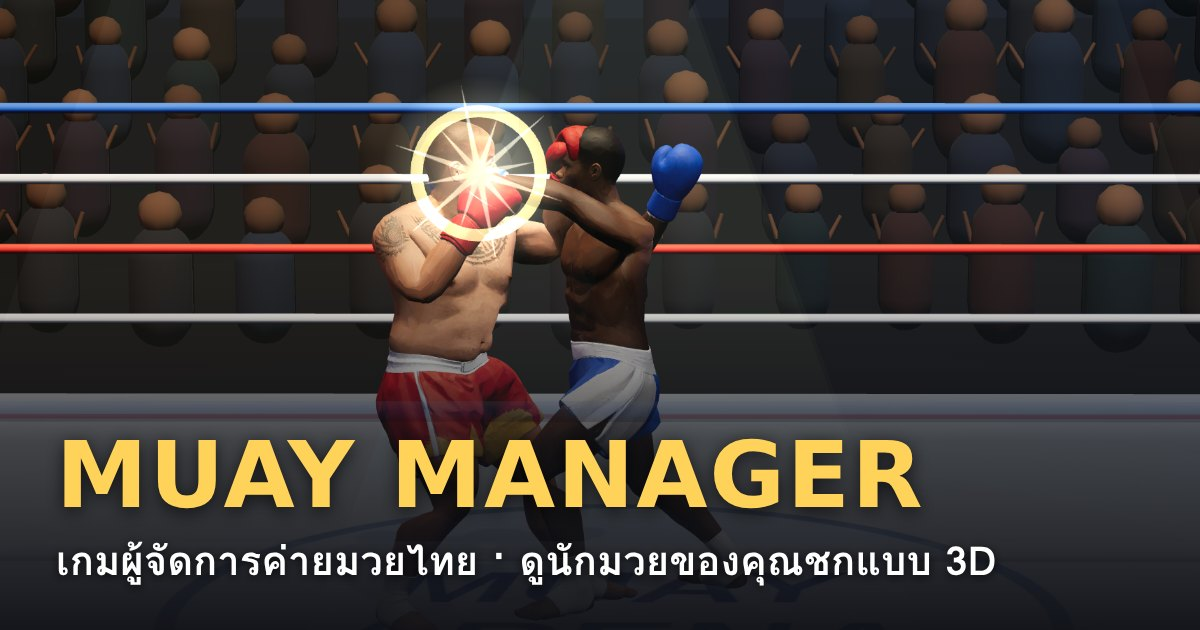
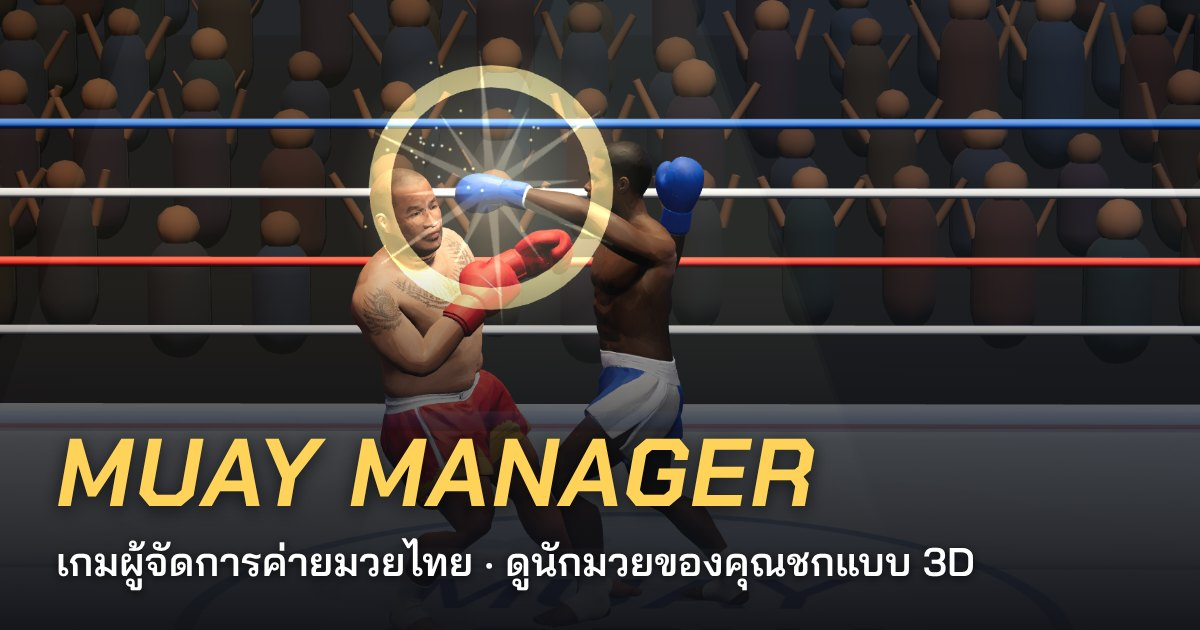
Muay Manager 2.60: new typefaces (Chakra Petch, Bai Jamjuree)
- headings, buttons, names and the scoreboard in Chakra Petch; body
  text in Bai Jamjuree (was Kanit and IBM Plex Sans Thai)
- words painted in the 3D halls use the same face; the faces they need
  are fetched before the hall is built, for 3 s at most
- link-preview picture remade with the same faces

Claude-Session: https://claude.ai/code/session_01CYCduqzhEhZjoxKVgwEKHx

diff --git a/muay-manager/prototypes/fight3d/src/arena.js b/muay-manager/prototypes/fight3d/src/arena.js
@@ -28,7 +28,7 @@ function matTex(c) {
     speckle(g, w, h, 2600, '255,255,255', c.dark || '40,60,80', c.noise || .05, 5);
     if (c.ring) { g.strokeStyle = c.ring; g.lineWidth = 10; g.beginPath(); g.arc(w / 2, h / 2, 210, 0, 7); g.stroke(); }
     if (c.fill) { g.fillStyle = c.fill; g.beginPath(); g.arc(w / 2, h / 2, 205, 0, 7); g.fill(); }
-    g.fillStyle = c.ink; g.font = 'italic 800 ' + (c.size || 78) + 'px Kanit, sans-serif'; g.textAlign = 'center'; g.textBaseline = 'middle';
+    g.fillStyle = c.ink; g.font = 'italic 800 ' + (c.size || 78) + 'px "Chakra Petch", sans-serif'; g.textAlign = 'center'; g.textBaseline = 'middle';
     g.fillText(c.t1, w / 2, h / 2 - 42); g.fillText(c.t2, w / 2, h / 2 + 46);
     if (c.border) { g.strokeStyle = c.border; g.lineWidth = 14; g.strokeRect(70, 70, w - 140, h - 140); }
   });
@@ -39,7 +39,7 @@ function apronTex(c) {
     if (c.planks) { for (let x = 0; x < w; x += 46) { g.fillStyle = 'rgba(0,0,0,' + (.08 + rng() * .22) + ')'; g.fillRect(x, 0, 3, h); g.fillStyle = 'rgba(255,220,170,' + rng() * .06 + ')'; g.fillRect(x + 3, 0, 43, h); } }
     if (c.bunting) { const cols = c.bunting; for (let x = 0, i = 0; x < w; x += 64, i++) { g.fillStyle = cols[i % cols.length]; g.beginPath(); g.moveTo(x, 0); g.lineTo(x + 64, 0); g.lineTo(x + 32, 44); g.fill(); } }
     g.fillStyle = 'rgba(0,0,0,.25)'; g.fillRect(0, 0, w, 10);
-    g.fillStyle = c.fg; g.font = 'italic 800 ' + (c.size || 46) + 'px Kanit, sans-serif'; g.textAlign = 'center'; g.textBaseline = 'middle';
+    g.fillStyle = c.fg; g.font = 'italic 800 ' + (c.size || 46) + 'px "Chakra Petch", sans-serif'; g.textAlign = 'center'; g.textBaseline = 'middle';
     for (let i = 0; i < 3; i++) g.fillText(c.text, w / 6 + i * w / 3, h / 2 + (c.bunting ? 22 : 4));
   });
 }
@@ -227,7 +227,7 @@ const champ = () => indoor({rows: 12, ropes: [0xe2b33c, 0x18181c, 0xe2b33c, 0x18
   apron: {bg: '#101013', fg: 'rgba(238,196,84,.95)', text: 'ศึกชิงแชมป์', size: 50},
   shirts: [0x1a1f2c, 0x2a2030, 0x162226, 0x30261c, 0x1f2127, 0x3a1e1e, 0x1a2434, 0x3a3320],
   extra(V) {
-    const screen = canvasTex(1024, 256, (g, w, h) => { const gr = g.createLinearGradient(0, 0, w, 0); gr.addColorStop(0, '#2a1a05'); gr.addColorStop(.5, '#7a5512'); gr.addColorStop(1, '#2a1a05'); g.fillStyle = gr; g.fillRect(0, 0, w, h); g.fillStyle = '#ffe9a8'; g.font = 'italic 800 120px Kanit, sans-serif'; g.textAlign = 'center'; g.textBaseline = 'middle'; g.fillText('ศึกชิงแชมป์มวยไทย', w / 2, h / 2 + 6); g.strokeStyle = '#ffd35a'; g.lineWidth = 8; g.strokeRect(8, 8, w - 16, h - 16); });
+    const screen = canvasTex(1024, 256, (g, w, h) => { const gr = g.createLinearGradient(0, 0, w, 0); gr.addColorStop(0, '#2a1a05'); gr.addColorStop(.5, '#7a5512'); gr.addColorStop(1, '#2a1a05'); g.fillStyle = gr; g.fillRect(0, 0, w, h); g.fillStyle = '#ffe9a8'; g.font = 'italic 800 120px "Chakra Petch", sans-serif'; g.textAlign = 'center'; g.textBaseline = 'middle'; g.fillText('ศึกชิงแชมป์มวยไทย', w / 2, h / 2 + 6); g.strokeStyle = '#ffd35a'; g.lineWidth = 8; g.strokeRect(8, 8, w - 16, h - 16); });
     const sm = basic({map: screen, fog: false});
     put(V.group, new THREE.PlaneGeometry(15, 3.75), sm, 0, 9.4, -19.5);
     put(V.group, new THREE.PlaneGeometry(11, 2.75), sm, -19.5, 8.6, -4, 0, Math.PI / 2); put(V.group, new THREE.PlaneGeometry(11, 2.75), sm, 19.5, 8.6, -4, 0, -Math.PI / 2);
@@ -244,7 +244,7 @@ const province = () => indoor({rows: 4, ropes: [0xe9e9ee, 0xd9342b, 0xe9e9ee, 0x
   shirts: [0x2a3040, 0x3a2a2a, 0x24382e, 0x40382a, 0x2c2c34, 0x4a2626, 0x26364a, 0x4a4030],
   extra(V) {
     const g = V.group, D = 12.6;
-    const board = canvasTex(1024, 256, (c, w, h) => { c.fillStyle = '#17383c'; c.fillRect(0, 0, w, h); const cols = ['#c9a23a', '#b23a2e', '#e6dcc2', '#2d6f8f'], words = ['มวยไทย', 'ศึกวันศุกร์', 'ค่ายมวย', 'ชกทุกนัด']; for (let i = 0; i < 4; i++) { c.fillStyle = cols[i]; c.fillRect(20 + i * 252, 40, 228, 150); c.fillStyle = i === 2 ? '#7c1f1a' : '#fff'; c.font = '700 44px Kanit, sans-serif'; c.textAlign = 'center'; c.textBaseline = 'middle'; c.fillText(words[i], 134 + i * 252, 116); } });
+    const board = canvasTex(1024, 256, (c, w, h) => { c.fillStyle = '#17383c'; c.fillRect(0, 0, w, h); const cols = ['#c9a23a', '#b23a2e', '#e6dcc2', '#2d6f8f'], words = ['มวยไทย', 'ศึกวันศุกร์', 'ค่ายมวย', 'ชกทุกนัด']; for (let i = 0; i < 4; i++) { c.fillStyle = cols[i]; c.fillRect(20 + i * 252, 40, 228, 150); c.fillStyle = i === 2 ? '#7c1f1a' : '#fff'; c.font = '700 44px "Chakra Petch", sans-serif'; c.textAlign = 'center'; c.textBaseline = 'middle'; c.fillText(words[i], 134 + i * 252, 116); } });
     board.wrapS = THREE.RepeatWrapping; board.repeat.set(3, 1);
     const wall = std({map: board, roughness: 1});
     for (let i = 0; i < 4; i++) put(g, new THREE.PlaneGeometry(D * 2, 6.4), wall, -Math.sin(i * Math.PI / 2) * D, 2.2, -Math.cos(i * Math.PI / 2) * D, 0, i * Math.PI / 2);
@@ -402,8 +402,8 @@ function camp(level) {
     if (L === 2) { c.fillStyle = '#9a9a94'; c.fillRect(0, 0, w, h); speckle(c, w, h, 4800, '70,70,70', '200,200,195', .14, 7); c.strokeStyle = 'rgba(60,60,60,.35)'; c.lineWidth = 4; for (let x = 256; x < w; x += 256) { c.beginPath(); c.moveTo(x, 0); c.lineTo(x, h); c.stroke(); c.beginPath(); c.moveTo(0, x); c.lineTo(w, x); c.stroke(); } return; }
     c.fillStyle = L === 5 ? '#b0362c' : '#3d6f8a'; c.fillRect(0, 0, w, h); speckle(c, w, h, 4200, '255,255,255', '15,35,50', .1, 8);
     c.strokeStyle = L === 5 ? 'rgba(242,184,58,.85)' : 'rgba(255,255,255,.55)'; c.lineWidth = 10; c.strokeRect(60, 60, w - 120, h - 120);
-    c.fillStyle = L === 5 ? 'rgba(242,184,58,.9)' : 'rgba(255,255,255,.75)'; c.font = 'italic 800 76px Kanit, sans-serif'; c.textAlign = 'center'; c.textBaseline = 'middle'; c.fillText('ค่ายมวย', w / 2, h / 2 + 250);
-    if (L >= 4) { c.font = '800 54px Kanit, sans-serif'; c.fillText('★'.repeat(L - 2), w / 2, h / 2 + 330); }
+    c.fillStyle = L === 5 ? 'rgba(242,184,58,.9)' : 'rgba(255,255,255,.75)'; c.font = 'italic 800 76px "Chakra Petch", sans-serif'; c.textAlign = 'center'; c.textBaseline = 'middle'; c.fillText('ค่ายมวย', w / 2, h / 2 + 250);
+    if (L >= 4) { c.font = '800 54px "Chakra Petch", sans-serif'; c.fillText('★'.repeat(L - 2), w / 2, h / 2 + 330); }
   });
   const floor = put(g, new THREE.PlaneGeometry(S + (L >= 4 ? 1.2 : 0), S + (L >= 4 ? 1.2 : 0)), std({map: floorTex, roughness: .95}), 0, .004, 0, -Math.PI / 2); floor.receiveShadow = true;
   const wood = std({color: 0x5a4028}), woodL = std({color: 0x7a5a3a}), white = std({color: 0xf0ece2}), gold = std({color: 0xd9a531, metalness: .5, roughness: .4}), red = std({color: 0xb5281f});
@@ -442,7 +442,7 @@ function camp(level) {
       put(g, new THREE.PlaneGeometry(X * 2 + .2, 2.6), std({map: plank, roughness: .95}), 0, 1.3, -D - .12);
       const nP = L === 3 ? 2 : L === 4 ? 4 : 6;
       for (let i = 0; i < nP; i++) { const x = -X + .6 + (i + .5) * ((X * 2 - 1.2) / nP); put(g, new THREE.PlaneGeometry(.62, .86), basic({map: posterTex(i + L * 3)}), x, 2.05 + (i % 2 ? .06 : -.04), -D - .1); }
-      const ban = canvasTex(1024, 160, (c, w, h) => { c.fillStyle = L === 5 ? '#7a1712' : '#1f3f8a'; c.fillRect(0, 0, w, h); c.fillStyle = '#f2b83a'; c.fillRect(0, 10, w, 8); c.fillRect(0, h - 18, w, 8); c.font = '800 92px Kanit, sans-serif'; c.textAlign = 'center'; c.textBaseline = 'middle'; c.fillStyle = '#fff4d8'; c.fillText(L === 5 ? 'ค่ายมวยระดับแชมป์' : 'ค่ายมวยไทย', w / 2, h / 2 + 4); });
+      const ban = canvasTex(1024, 160, (c, w, h) => { c.fillStyle = L === 5 ? '#7a1712' : '#1f3f8a'; c.fillRect(0, 0, w, h); c.fillStyle = '#f2b83a'; c.fillRect(0, 10, w, 8); c.fillRect(0, h - 18, w, 8); c.font = '800 92px "Chakra Petch", sans-serif'; c.textAlign = 'center'; c.textBaseline = 'middle'; c.fillStyle = '#fff4d8'; c.fillText(L === 5 ? 'ค่ายมวยระดับแชมป์' : 'ค่ายมวยไทย', w / 2, h / 2 + 4); });
       put(g, new THREE.PlaneGeometry(4.6, .72), basic({map: ban, side: THREE.DoubleSide}), 0, H - .52, D + .02, 0, Math.PI, 0);
       put(g, new THREE.PlaneGeometry(4.6, .72), basic({map: ban, side: THREE.DoubleSide}), 0, H + .25, -D - .14);
       const flagCols = [0xc9281f, 0xf0f0f2, 0x1f55c4, 0xe0a52a, 0x2f8a3a];
@@ -547,13 +547,13 @@ function posterTex(seed) {
   const pal = [['#c9281f', '#f2b83a'], ['#1f3f8a', '#f0f0f2'], ['#e0a52a', '#1b1300'], ['#2f6a2a', '#f2e6b8'], ['#5a1f6a', '#f2b83a'], ['#1b1b1f', '#e2382f']][seed % 6];
   return canvasTex(256, 360, (c, w, h) => {
     c.fillStyle = pal[0]; c.fillRect(0, 0, w, h); c.fillStyle = 'rgba(0,0,0,.18)'; c.fillRect(0, h * .62, w, h * .38);
-    c.fillStyle = pal[1]; c.font = '800 46px Kanit, sans-serif'; c.textAlign = 'center'; c.fillText('ศึกมวยไทย', w / 2, 58);
+    c.fillStyle = pal[1]; c.font = '800 46px "Chakra Petch", sans-serif'; c.textAlign = 'center'; c.fillText('ศึกมวยไทย', w / 2, 58);
     // two fighters' silhouettes facing each other
     c.fillStyle = 'rgba(0,0,0,.55)';
     for (const s of [-1, 1]) { const x = w / 2 + s * 58; c.beginPath(); c.arc(x, 128, 22, 0, 7); c.fill(); c.fillRect(x - 24, 152, 48, 70); c.beginPath(); c.arc(x - s * 30, 150, 15, 0, 7); c.fill(); c.fillRect(x - 20, 222, 16, 60); c.fillRect(x + 4, 222, 16, 60); }
-    c.fillStyle = pal[1]; c.font = '800 40px Kanit, sans-serif'; c.fillText('VS', w / 2, 200);
-    c.font = '700 26px Kanit, sans-serif'; c.fillText(['คืนวันเสาร์', 'ชิงเข็มขัด', 'คู่เอก 5 ยก', 'มันส์ทุกคู่', 'ศึกวันพระ', 'ศึกใหญ่ประจำปี'][(seed * 7) % 6], w / 2, h - 70);
-    c.font = '600 20px Kanit, sans-serif'; c.fillText('เวทีมวยประจำจังหวัด', w / 2, h - 36);
+    c.fillStyle = pal[1]; c.font = '800 40px "Chakra Petch", sans-serif'; c.fillText('VS', w / 2, 200);
+    c.font = '700 26px "Chakra Petch", sans-serif'; c.fillText(['คืนวันเสาร์', 'ชิงเข็มขัด', 'คู่เอก 5 ยก', 'มันส์ทุกคู่', 'ศึกวันพระ', 'ศึกใหญ่ประจำปี'][(seed * 7) % 6], w / 2, h - 70);
+    c.font = '600 20px "Chakra Petch", sans-serif'; c.fillText('เวทีมวยประจำจังหวัด', w / 2, h - 36);
   });
 }
 // a pair of boxing shorts, for the washing line
@@ -562,7 +562,7 @@ function shortsTex(col, i) {
     c.fillStyle = '#' + col.toString(16).padStart(6, '0');
     c.beginPath(); c.moveTo(14, 18); c.lineTo(114, 18); c.lineTo(122, 116); c.lineTo(72, 116); c.lineTo(64, 78); c.lineTo(56, 116); c.lineTo(6, 116); c.closePath(); c.fill();
     c.fillStyle = col === 0xf0f0f2 ? '#c9281f' : '#ffffff'; c.fillRect(14, 18, 100, 16);
-    c.fillStyle = 'rgba(255,255,255,.55)'; c.font = '700 22px Kanit, sans-serif'; c.textAlign = 'center'; c.fillText(['มวย', 'ไทย', 'สู้', 'ชนะ'][i % 4], 36, 80);
+    c.fillStyle = 'rgba(255,255,255,.55)'; c.font = '700 22px "Chakra Petch", sans-serif'; c.textAlign = 'center'; c.fillText(['มวย', 'ไทย', 'สู้', 'ชนะ'][i % 4], 36, 80);
   });
 }
 

diff --git a/muay-manager/prototypes/fight3d/src/page.html b/muay-manager/prototypes/fight3d/src/page.html
@@ -1,6 +1,6 @@
 <title>Muay Fight Lab 3D</title>
 <meta name="claude:viewport-fit-sides" content="cover">
-<link rel="stylesheet" href="https://fonts.googleapis.com/css2?family=Kanit:ital,wght@0,500;0,700;1,800&family=IBM+Plex+Sans+Thai:wght@400;500;600&display=swap">
+<link rel="stylesheet" href="https://fonts.googleapis.com/css2?family=Chakra+Petch:ital,wght@0,500;0,600;0,700;1,700&family=Bai+Jamjuree:wght@400;500;600;700&display=swap">
 <style>
 /* Layout: fight-night broadcast. Scoreboard strip, 3D arena, call line, look switcher, tale of the tape. Single dark look by choice. */
 :root{
@@ -8,8 +8,8 @@
   --bg:#0e0f14; --panel:#181a22; --line:#2a2d39; --fg:#f1f2f5; --muted:#9a9fb0;
   --red:#e2382f; --red-soft:#ff7a70; --blue:#2f76ea; --blue-soft:#7fb0ff; --gold:#f2b83a; --hp:#49d17d; --warn:#f2c23a; --bad:#f0624f;
   --track:#2a2d39; --stamina:#59b5ff; --ink:#1b1300; --shade:rgba(6,7,10,.78); --stage:#07080b; --pop:#ffffff;
-  --display:"Kanit","IBM Plex Sans Thai",system-ui,sans-serif;
-  --body:"IBM Plex Sans Thai",system-ui,-apple-system,"Segoe UI",sans-serif;
+  --display:"Chakra Petch","Bai Jamjuree",system-ui,sans-serif; /* the heaviest face is 700: the 800 asked for here and there resolves to it */
+  --body:"Bai Jamjuree",system-ui,-apple-system,"Segoe UI",sans-serif;
 }
 body{background:var(--bg);color:var(--fg);font-family:var(--body);font-size:15px;line-height:1.5;
   padding-block:12px 28px;padding-left:max(16px, env(safe-area-inset-left, 0px));padding-right:max(16px, env(safe-area-inset-right, 0px))}
@@ -423,7 +423,7 @@ p.bad{margin:0;font-size:14px;font-weight:600;color:var(--bad)}
   <details class="credits"><summary>เครดิต</summary>
     <p>เสียงประกอบการชกจาก <a href="https://opengameart.org" target="_blank" rel="noopener">OpenGameArt.org</a> เป็นสาธารณสมบัติ (CC0) ขอบคุณผู้สร้างทุกคน</p>
     <ul><li>หมัด: <a href="https://opengameart.org/content/punch" target="_blank" rel="noopener">Punch</a> โดย Iwan "qubodup" Gabovitch (CC0)</li><li>หมัด ลูกหนัก ศอก ล้ม: <a href="https://opengameart.org/content/37-hitspunches" target="_blank" rel="noopener">37 hits/punches</a> โดย qubodup (Independent.nu ljudbank) (CC0)</li><li>เตะโดนเนื้อ ล้ม: <a href="https://opengameart.org/content/12-wet-towel-hittingfallingpunching-floor-sounds" target="_blank" rel="noopener">12 wet towel hitting/falling/punching floor sounds</a> โดย Iwan "qubodup" Gabovitch (CC0)</li><li>ลมลูกเตะ: <a href="https://opengameart.org/content/swish-bamboo-stick-weapon-swhoshes" target="_blank" rel="noopener">Swish - bamboo stick weapon swhoshes</a> โดย Iwan "qubodup" Gabovitch (CC0)</li><li>ลมหมัด: <a href="https://opengameart.org/content/swishes-sound-pack" target="_blank" rel="noopener">Swishes Sound Pack</a> โดย artisticdude (CC0)</li><li>บัง ศอก: <a href="https://opengameart.org/content/10-impactshield-blocks" target="_blank" rel="noopener">10 Impact/Shield Blocks</a> โดย StarNinjas (CC0)</li><li>คนดูลุกฮือ: <a href="https://opengameart.org/content/crowd-shoutingspeaking-ambience" target="_blank" rel="noopener">Crowd Shouting/Speaking Ambience</a> โดย StarNinjas (CC0)</li><li>ปรบมือ: <a href="https://opengameart.org/content/applause-in-a-large-hall-or-church" target="_blank" rel="noopener">Applause in a large hall or church</a> โดย eXpl0it3r (CC0)</li><li>เสียงคนดูและเสียงเชียร์: <a href="https://opengameart.org/content/free-crowd-cheering-sounds" target="_blank" rel="noopener">Free Crowd Cheering Sounds</a> โดย Gregor Quendel (<a href="https://creativecommons.org/licenses/by/4.0/" target="_blank" rel="noopener">CC-BY 4.0</a>) ตัดบางช่วงและปรับความดัง</li></ul>
-    <p>ฟอนต์ Kanit, IBM Plex Sans Thai (OFL) • <a href="https://threejs.org" target="_blank" rel="noopener">three.js</a> (MIT)</p>
+    <p>ฟอนต์ Chakra Petch, Bai Jamjuree (OFL) • <a href="https://threejs.org" target="_blank" rel="noopener">three.js</a> (MIT)</p>
   </details>
   <p class="note" id="noteLine"><span id="modelNote"></span>ไฟต์หมายเลข <span id="seed"></span> เปลี่ยนแบบการนำเสนอได้ตลอดโดยผลการชกไม่เปลี่ยน ตัวเลขข้างชื่อคือแต้มสด ขึ้นทันทีเมื่ออาวุธเข้าเป้า: เข้าเป้า +1 เข้าหนักหรือท่าไม้ตาย +2 เหวี่ยงล้มหรือถีบล้ม +3 ทำล้มจนถูกนับ +10 โดนบังไม่ได้แต้ม ครบยกแล้วแต้มมากกว่าชนะ สีทองคือฝ่ายที่นำ ใต้นาฬิกาคือแต้มของยกที่กำลังชก แถบเขียวคือพลังชีวิต แถบฟ้าคือความอึด แถบทองคือเกจท่าไม้ตาย</p>
 </div>

diff --git a/muay-manager/prototypes/fight3d/src/main.js b/muay-manager/prototypes/fight3d/src/main.js
@@ -114,8 +114,8 @@ function buildRoundCard() { // readable from both sides
   g.visible = false;
   return {obj: g, set(n) {
     const c = cv.getContext('2d'); c.fillStyle = '#101116'; c.fillRect(0, 0, 256, 192); c.strokeStyle = '#f2b83a'; c.lineWidth = 8; c.strokeRect(7, 7, 242, 178);
-    c.textAlign = 'center'; c.fillStyle = '#f2b83a'; c.font = "700 40px 'Kanit', 'IBM Plex Sans Thai', sans-serif"; c.fillText('ยก', 128, 54);
-    c.fillStyle = '#ffffff'; c.font = "800 118px 'Kanit', 'IBM Plex Sans Thai', sans-serif"; c.fillText(String(n), 128, 164); tex.needsUpdate = true; }};
+    c.textAlign = 'center'; c.fillStyle = '#f2b83a'; c.font = "700 40px 'Chakra Petch', 'Bai Jamjuree', sans-serif"; c.fillText('ยก', 128, 54);
+    c.fillStyle = '#ffffff'; c.font = "800 118px 'Chakra Petch', 'Bai Jamjuree', sans-serif"; c.fillText(String(n), 128, 164); tex.needsUpdate = true; }};
 }
 function startCorner() {
   if (!fighters[0] || !fighters[0].isModel || !fighters[1].isModel) return false;
@@ -1096,4 +1096,7 @@ const start = async () => {
 };
 // sample fights that end in different ways: hook, high kick, elbow, flying knee, and a decision
 const SAMPLE_SEEDS = [300, 512, 84, 1607, 5];
-if (document.fonts && document.fonts.ready) document.fonts.ready.then(start, start); else start();
+if (document.fonts && document.fonts.load) {
+  const want = ['italic 700', '700', '600', '500'].map(w => document.fonts.load(w + ' 20px "Chakra Petch"', 'มวยไทย ศึก ยก MUAY 123').catch(() => {}));
+  Promise.race([Promise.all(want).then(() => document.fonts.ready), new Promise(res => setTimeout(res, 3000))]).then(start, start);
+} else start();

diff --git a/muay-manager/prototypes/fight3d/src/rig.js b/muay-manager/prototypes/fight3d/src/rig.js
@@ -160,8 +160,8 @@ function shortsTexture(c) {
     g.fillStyle = 'rgba(0,0,0,.28)'; for (const y of [.05, .1, .15]) g.fillRect(0, H * y, W, 2.5);
     for (const x of [0, 256, 512]) { g.fillStyle = c.trimCss; g.fillRect(x - 9, H * .2, 18, H); g.fillStyle = 'rgba(0,0,0,.22)'; g.fillRect(x - 3, H * .2, 6, H); }
     g.textAlign = 'center'; g.textBaseline = 'middle'; g.lineJoin = 'round';
-    g.font = '700 58px Kanit, "IBM Plex Sans Thai", sans-serif'; g.lineWidth = 6; g.strokeStyle = 'rgba(0,0,0,.45)'; g.strokeText('มวยไทย', 128, H * .43); g.fillStyle = c.textCss; g.fillText('มวยไทย', 128, H * .43);
-    g.font = 'italic 800 38px Kanit, sans-serif'; g.lineWidth = 5; g.strokeText('MUAY THAI', 384, H * .43); g.fillText('MUAY THAI', 384, H * .43);
+    g.font = '700 58px "Chakra Petch", "Bai Jamjuree", sans-serif'; g.lineWidth = 6; g.strokeStyle = 'rgba(0,0,0,.45)'; g.strokeText('มวยไทย', 128, H * .43); g.fillStyle = c.textCss; g.fillText('มวยไทย', 128, H * .43);
+    g.font = 'italic 800 38px "Chakra Petch", sans-serif'; g.lineWidth = 5; g.strokeText('MUAY THAI', 384, H * .43); g.fillText('MUAY THAI', 384, H * .43);
   });
 }
 let GRAD = null, OUTLINE = null, GEO = null;

diff --git a/muay-manager/prototypes/fight3d/src/drill.js b/muay-manager/prototypes/fight3d/src/drill.js
@@ -33,7 +33,7 @@ function makeBag(beamY) {
   const skin = tex(512, 512, (c, w, h) => {
     c.fillStyle = '#8a221b'; c.fillRect(0, 0, w, h); c.fillStyle = '#1b1b20'; c.fillRect(0, 0, w, 70); c.fillRect(0, h - 70, w, 70);
     for (let i = 0; i < 60; i++) { c.fillStyle = 'rgba(' + (i % 2 ? '255,200,180' : '30,5,5') + ',' + (.03 + (i * 37 % 10) / 120) + ')'; c.fillRect((i * 97) % w, 70 + (i * 53) % (h - 180), 20 + (i * 13) % 60, 10 + (i * 7) % 40); }
-    c.fillStyle = 'rgba(255,224,150,.9)'; c.font = 'italic 800 64px Kanit, sans-serif'; c.textAlign = 'center'; c.textBaseline = 'middle'; c.fillText('มวยไทย', w / 4, h / 2); c.fillText('มวยไทย', w * 3 / 4, h / 2);
+    c.fillStyle = 'rgba(255,224,150,.9)'; c.font = 'italic 800 64px "Chakra Petch", sans-serif'; c.textAlign = 'center'; c.textBaseline = 'middle'; c.fillText('มวยไทย', w / 4, h / 2); c.fillText('มวยไทย', w * 3 / 4, h / 2);
   });
   mesh(piv, new THREE.CylinderGeometry(r, r, len, 20), std({map: skin, roughness: .55}), 0, top - len / 2 - beamY, 0);
   mesh(piv, new THREE.SphereGeometry(r, 20, 8, 0, 7, Math.PI / 2, Math.PI / 2), std({color: 0x1b1b20, roughness: .55}), 0, top - len - beamY, 0);

diff --git a/muay-manager/prototypes/fight3d/site/loader.html b/muay-manager/prototypes/fight3d/site/loader.html
@@ -10,9 +10,9 @@
   </div>
 </div>
 <style>
-#siteLoad{position:fixed;inset:0;z-index:100;background:#0e0f14;display:flex;align-items:center;justify-content:center;padding:16px;color:#f1f2f5;font-family:"IBM Plex Sans Thai",system-ui,sans-serif}
+#siteLoad{position:fixed;inset:0;z-index:100;background:#0e0f14;display:flex;align-items:center;justify-content:center;padding:16px;color:#f1f2f5;font-family:"Bai Jamjuree",system-ui,sans-serif}
 #siteLoad .sl-box{display:flex;flex-direction:column;align-items:center;gap:12px;width:min(320px,100%);text-align:center}
-#siteLoad .sl-logo{font-family:"Kanit",system-ui,sans-serif;font-style:italic;font-weight:800;font-size:28px;letter-spacing:.02em}
+#siteLoad .sl-logo{font-family:"Chakra Petch",system-ui,sans-serif;font-style:italic;font-weight:800;font-size:28px;letter-spacing:.02em}
 #siteLoad .sl-logo span{color:#f2b83a}
 #siteLoad #slMsg{font-size:15px}
 #siteLoad .sl-bar{width:100%;height:8px;border-radius:4px;background:#2a2d39;overflow:hidden}

diff --git a/muay-manager/prototypes/fight3d/site/privacy.html b/muay-manager/prototypes/fight3d/site/privacy.html
@@ -6,7 +6,7 @@
 <title>นโยบายความเป็นส่วนตัว · Muay Manager</title>
 <style>
 :root{color-scheme:dark}
-body{margin:0;background:#0e0f14;color:#e9e9ee;font-family:"IBM Plex Sans Thai","Sarabun",system-ui,sans-serif;font-size:16px;line-height:1.7}
+body{margin:0;background:#0e0f14;color:#e9e9ee;font-family:"Bai Jamjuree","Sarabun",system-ui,sans-serif;font-size:16px;line-height:1.7}
 main{max-width:720px;margin:0 auto;padding:24px 18px 60px}
 h1{font-size:24px;margin:0 0 4px;color:#f2b83a} h2{font-size:18px;margin:26px 0 6px;color:#f2b83a}
 p,li{color:#d6d7de} .muted{color:#9a9ba6;font-size:14px} a{color:#7fb0ff} ul{padding-left:22px}

diff --git a/muay-manager/prototypes/fight3d/site/terms.html b/muay-manager/prototypes/fight3d/site/terms.html
@@ -6,7 +6,7 @@
 <title>ข้อตกลงการใช้งาน · Muay Manager</title>
 <style>
 :root{color-scheme:dark}
-body{margin:0;background:#0e0f14;color:#e9e9ee;font-family:"IBM Plex Sans Thai","Sarabun",system-ui,sans-serif;font-size:16px;line-height:1.7}
+body{margin:0;background:#0e0f14;color:#e9e9ee;font-family:"Bai Jamjuree","Sarabun",system-ui,sans-serif;font-size:16px;line-height:1.7}
 main{max-width:720px;margin:0 auto;padding:24px 18px 60px}
 h1{font-size:24px;margin:0 0 4px;color:#f2b83a} h2{font-size:18px;margin:26px 0 6px;color:#f2b83a}
 p,li{color:#d6d7de} .muted{color:#9a9ba6;font-size:14px} a{color:#7fb0ff} ul{padding-left:22px}

diff --git a/muay-manager/prototypes/fight3d/src/game.js b/muay-manager/prototypes/fight3d/src/game.js
@@ -113,7 +113,7 @@ const MISSIONS = [{id: 'train', th: 'ซ้อมครบ 3 ครั้ง', n
 const SAVE_KEY = 'muayManagerSave1';
 // The version shown on the page, and the same as a number: two players in a live match must run the same build (they each
 // work the fight out themselves), so the older one reloads when it sees a newer one. Raise both with every release.
-const VER = '2.59', BUILD = 259;
+const VER = '2.60', BUILD = 260;
 
 let API = null, S = null, tab = 'home', view = null, CLOUD = null, board = [], cloudNote = 'กำลังเชื่อมต่อ…', pending = null, mini = null, F = null, DR = null;
 

diff --git a/muay-manager/STATUS.md b/muay-manager/STATUS.md
@@ -840,6 +840,18 @@
 - ไม่ได้ตรวจ: บนมือถือจริง (ความเร็ววิ่ง 62 จุดต่อวินาที อ่านทันไหม) • ข่าวผลชกชนะที่ส่งผ่านเซิร์ฟเวอร์ไปขึ้นเครื่องอื่น (รอบทดสอบนี้ฝั่ง A แพ้ จึงตรวจได้แค่ว่าแพ้ไม่ขึ้นข่าว ทางส่งเป็นทางเดียวกับข่าวนักมวยใหม่ที่ตรวจแล้ว) • ข่าวนัดชกและศึกชิงถ้วยช่วงกำลังแข่ง (ดูเฉพาะช่วงเปิดรับสมัคร)
 - ข้อจำกัดที่รู้: ใครก็ตามที่มีกุญแจผู้เล่นส่งข่าวปลอมในรูปแบบที่กำหนดได้ (เช่น อ้างว่าชนะน็อก) เท่ากับความเชื่อถือของเซฟทั้งเกมตอนนี้ แก้ได้เมื่อทำเซิร์ฟเวอร์เป็นผู้ตัดสิน (P1 ใน `docs/SERVER_WORK_PLAN.md`) • ข่าวใหม่ขึ้นแถบเมื่อรอบที่วิ่งอยู่จบ (ไม่เกินหนึ่งรอบ)
 
+ความเห็นรอบที่ 84 (19 พ.ย. 2026): "เปลี่ยนฟอนต์ใหม่ได้ไหม หาฟอนต์ที่สวยต่างจากนี้หน่อย ฟอนต์นี้ใครๆก็ใช้ ไม่เท่เลย"
+
+ทำแล้วในรอบที่ 84 (19 พ.ย. 2026) ต้นแบบ 2.60 (ตัวจำลองไม่เปลี่ยน)
+- [x] ฟอนต์ใหม่ทั้งเกม: หัวข้อ ปุ่ม ชื่อนักมวย ป้ายคะแนน = **Chakra Petch** (เดิม Kanit) • เนื้อความ = **Bai Jamjuree** (เดิม IBM Plex Sans Thai) ทั้งคู่ของ Cadson Demak สัญญาอนุญาต OFL จาก Google Fonts
+- [x] ตัวหนังสือที่วาดในฉาก 3D (พื้นเวที ป้ายผ้า โปสเตอร์ ป้ายบอกยก ขอบกางเกง) ใช้ Chakra Petch ด้วย • ก่อนสร้างฉาก เกมรอโหลดหน้าฟอนต์ที่ป้ายเหล่านี้ใช้ ไม่เกิน 3 วินาที (canvas ไม่รอฟอนต์เอง)
+- [x] หน้าโหลด หน้านโยบาย หน้าข้อตกลง และเครดิต เปลี่ยนชื่อฟอนต์ตาม
+- วิธีเลือก: เรนเดอร์หน้าค่าย หน้าหาคู่ชก และป้ายคะแนนในฉากชกของเกมจริงด้วย 7 ชุด (Kanit เดิม, Chakra Petch, Fahkwang, K2D, Chonburi, Pridi, Krub) • เลือก Chakra Petch เพราะเหลี่ยมคมแบบป้ายกีฬา ต่างจาก Kanit ชัด และอ่านง่ายในตัวเล็ก • Chonburi มีเอกลักษณ์แบบโปสเตอร์มวยเก่าที่สุด แต่ตัวกว้างและมีน้ำหนักเดียว ชื่อนักมวยในป้ายคะแนนถูกตัดเร็ว เหมาะกับหัวข้อใหญ่อย่างเดียว
+- ภาพเทียบส่งให้เจ้าของเกมแล้ว เปลี่ยนชุดได้ที่ `src/page.html` (ลิงก์ Google Fonts กับ `--display` / `--body`) และชื่อฟอนต์ในสตริง canvas (`arena.js` `drill.js` `rig.js` `main.js`)
+- [x] ภาพตัวอย่างลิงก์ (`site/og.jpg`) ทำใหม่ด้วยฟอนต์ชุดเดียวกัน (`tools/og-image.mjs`)
+- [x] ตรวจ: บอท `e2e:full` 134 ข้อ • ภาพทุกหน้าจอที่จอกว้าง 390 และ 360 จุดโดยโหลดฟอนต์จริง (ที่ 360 ปุ่มสั่งด่วน "ผ่อนแรง เก็บแต้ม" ขึ้นสองบรรทัด นอกนั้นไม่ล้น) • เว็บจริงโหลดหน้าฟอนต์ครบ 6 หน้า
+- ไม่ได้ตรวจ: บนมือถือจริง (iOS วาดสระและวรรณยุกต์ของฟอนต์นี้อย่างไร)
+
 ความเห็นรอบที่ 27 (ภาพจาก iPhone): กดกลับค่ายแล้วกรรมการยังยืนชูมืออยู่ในฉากค่าย • อยากได้ปุ่มตั้งค่าเสียงที่หน้าแรก
 
 ทำแล้วในรอบที่ 28 (14 พ.ย. 2026)

diff --git a/muay-manager/CREDITS.md b/muay-manager/CREDITS.md
@@ -26,7 +26,7 @@
 | ดนตรีปี่กลอง ระฆัง เสียงคนดูพื้นหลัง | สร้างจากโค้ดในเกม |
 | ตัวนักมวย 3D และสาวชูป้ายบอกยก (`assets/cardgirl.glb` 18 พ.ย. 2026) | สร้างด้วย Meshy (บัญชีแบบจ่ายเงินของเจ้าของเกม: ไม่ต้องให้เครดิต) **ไม่แสดงในเกม** ตามที่เจ้าของเกมสั่ง 17 พ.ย. 2026 • ถ้ามีตัวไหนสร้างตอนใช้แผนฟรี ตัวนั้นเป็น CC BY 4.0 ต้องให้เครดิต |
 | ภาพ UI | สร้างด้วย ChatGPT (บัญชีของเจ้าของเกม) **ไม่แสดงในเกม** ตามที่เจ้าของเกมสั่ง 17 พ.ย. 2026 |
-| ฟอนต์ | Kanit, IBM Plex Sans Thai — Google Fonts (SIL Open Font License) |
+| ฟอนต์ | Chakra Petch, Bai Jamjuree (Cadson Demak) — Google Fonts (SIL Open Font License) |
 | three.js | MIT License — https://threejs.org |
 | ดนตรีประกอบ 2 เพลง (`prototypes/fight3d/assets/music/`) | ไฟล์จากเจ้าของเกม 14 พ.ย. 2026 — ที่มาและสัญญาอนุญาต: รอระบุ ต้องตรวจก่อนเปิดสาธารณะหรือลงสโตร์ |
 | เสียงคนดูและเสียงเชียร์ (`prototypes/fight3d/assets/sfx/cheer-1.mp3`, `swell-1.mp3`, `swell-2.mp3`) | [Free Crowd Cheering Sounds](https://opengameart.org/content/free-crowd-cheering-sounds) โดย Gregor Quendel ([gregorquendel.com](https://www.gregorquendel.com)) — [CC-BY 4.0](https://creativecommons.org/licenses/by/4.0/) ตัดบางช่วงและปรับความดัง |

diff --git a/muay-manager/prototypes/fight3d/README.md b/muay-manager/prototypes/fight3d/README.md
@@ -5,6 +5,12 @@
 
 ตัวนักมวยเป็นโมเดล 3D ที่สร้างด้วย Meshy (ภาพอ้างอิง → โมเดลมีผิว → ใส่กระดูกอัตโนมัติ) แล้วขยับด้วยท่าชุดเดียวกับตัวที่สร้างจากโค้ด ซึ่งยังเลือกกลับไปใช้ได้ เสียงเป็นเสียงสังเคราะห์ชั่วคราว
 
+## รอบที่ 84: ฟอนต์ใหม่ (19 พ.ย. 2026)
+
+- `src/page.html`: ลิงก์ Google Fonts (Chakra Petch 500/600/700 + เอียง 700, Bai Jamjuree 400–700) และ `--display` / `--body` • น้ำหนัก 800 ที่ CSS ขอ จะได้ 700 ซึ่งหนาสุดของฟอนต์นี้
+- สตริงฟอนต์ของ canvas: `arena.js` `drill.js` `rig.js` `main.js` (`buildRoundCard`) • `main.js` ท้ายไฟล์: โหลดหน้าฟอนต์ที่ canvas ใช้ก่อน `start()` รอไม่เกิน 3 วินาที
+- `site/loader.html` `site/privacy.html` `site/terms.html` เปลี่ยนชื่อฟอนต์ตาม
+
 ## รอบที่ 83: แถบข่าววิ่ง (19 พ.ย. 2026)
 
 - เซิร์ฟเวอร์ (`functions/api/[[route]].js`): `NEWS` (เก็บ 200 แสดง 30 ห่าง 8 วินาที ชนิดข่าว วิธีชนะ) `newsItem(x)` คัดเฉพาะฟิลด์ที่รู้จัก `{k, name, o, hw, rd, n, ch}` • ตาราง `news (id, t, pid, data)` + ดัชนี `news_pid` • `GET` / `POST /api/news` • `DELETE /api/me` ลบข่าวด้วย
